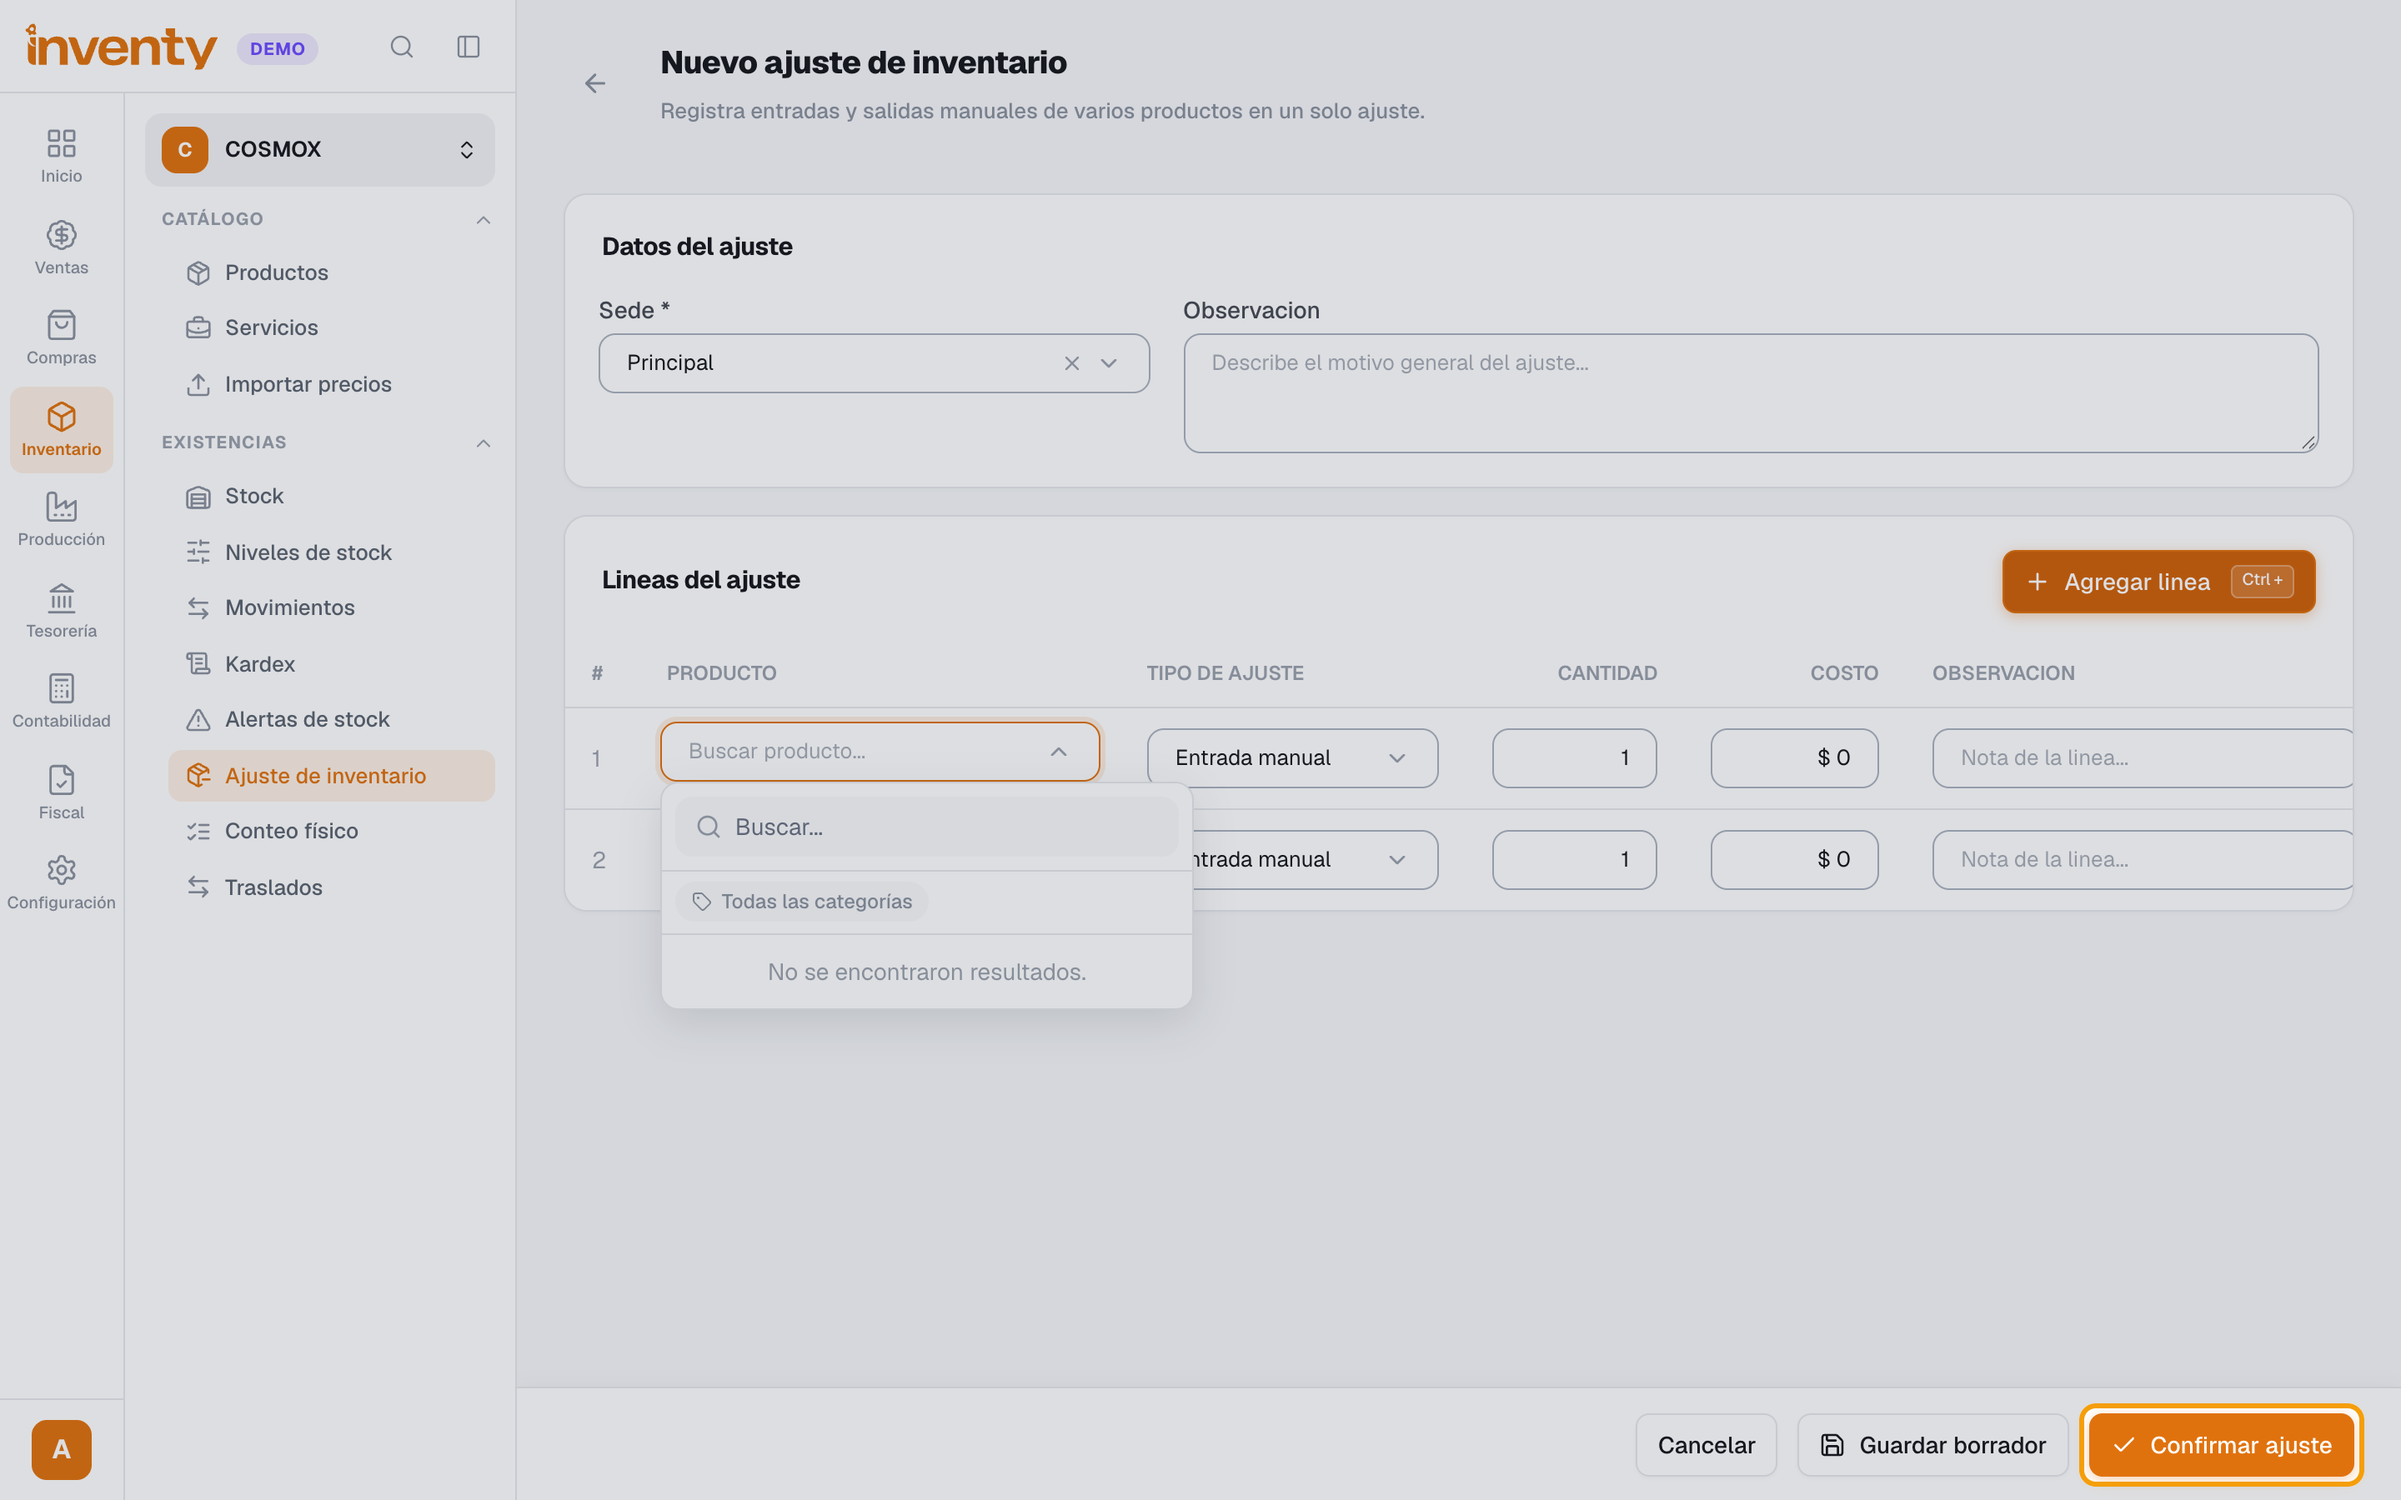
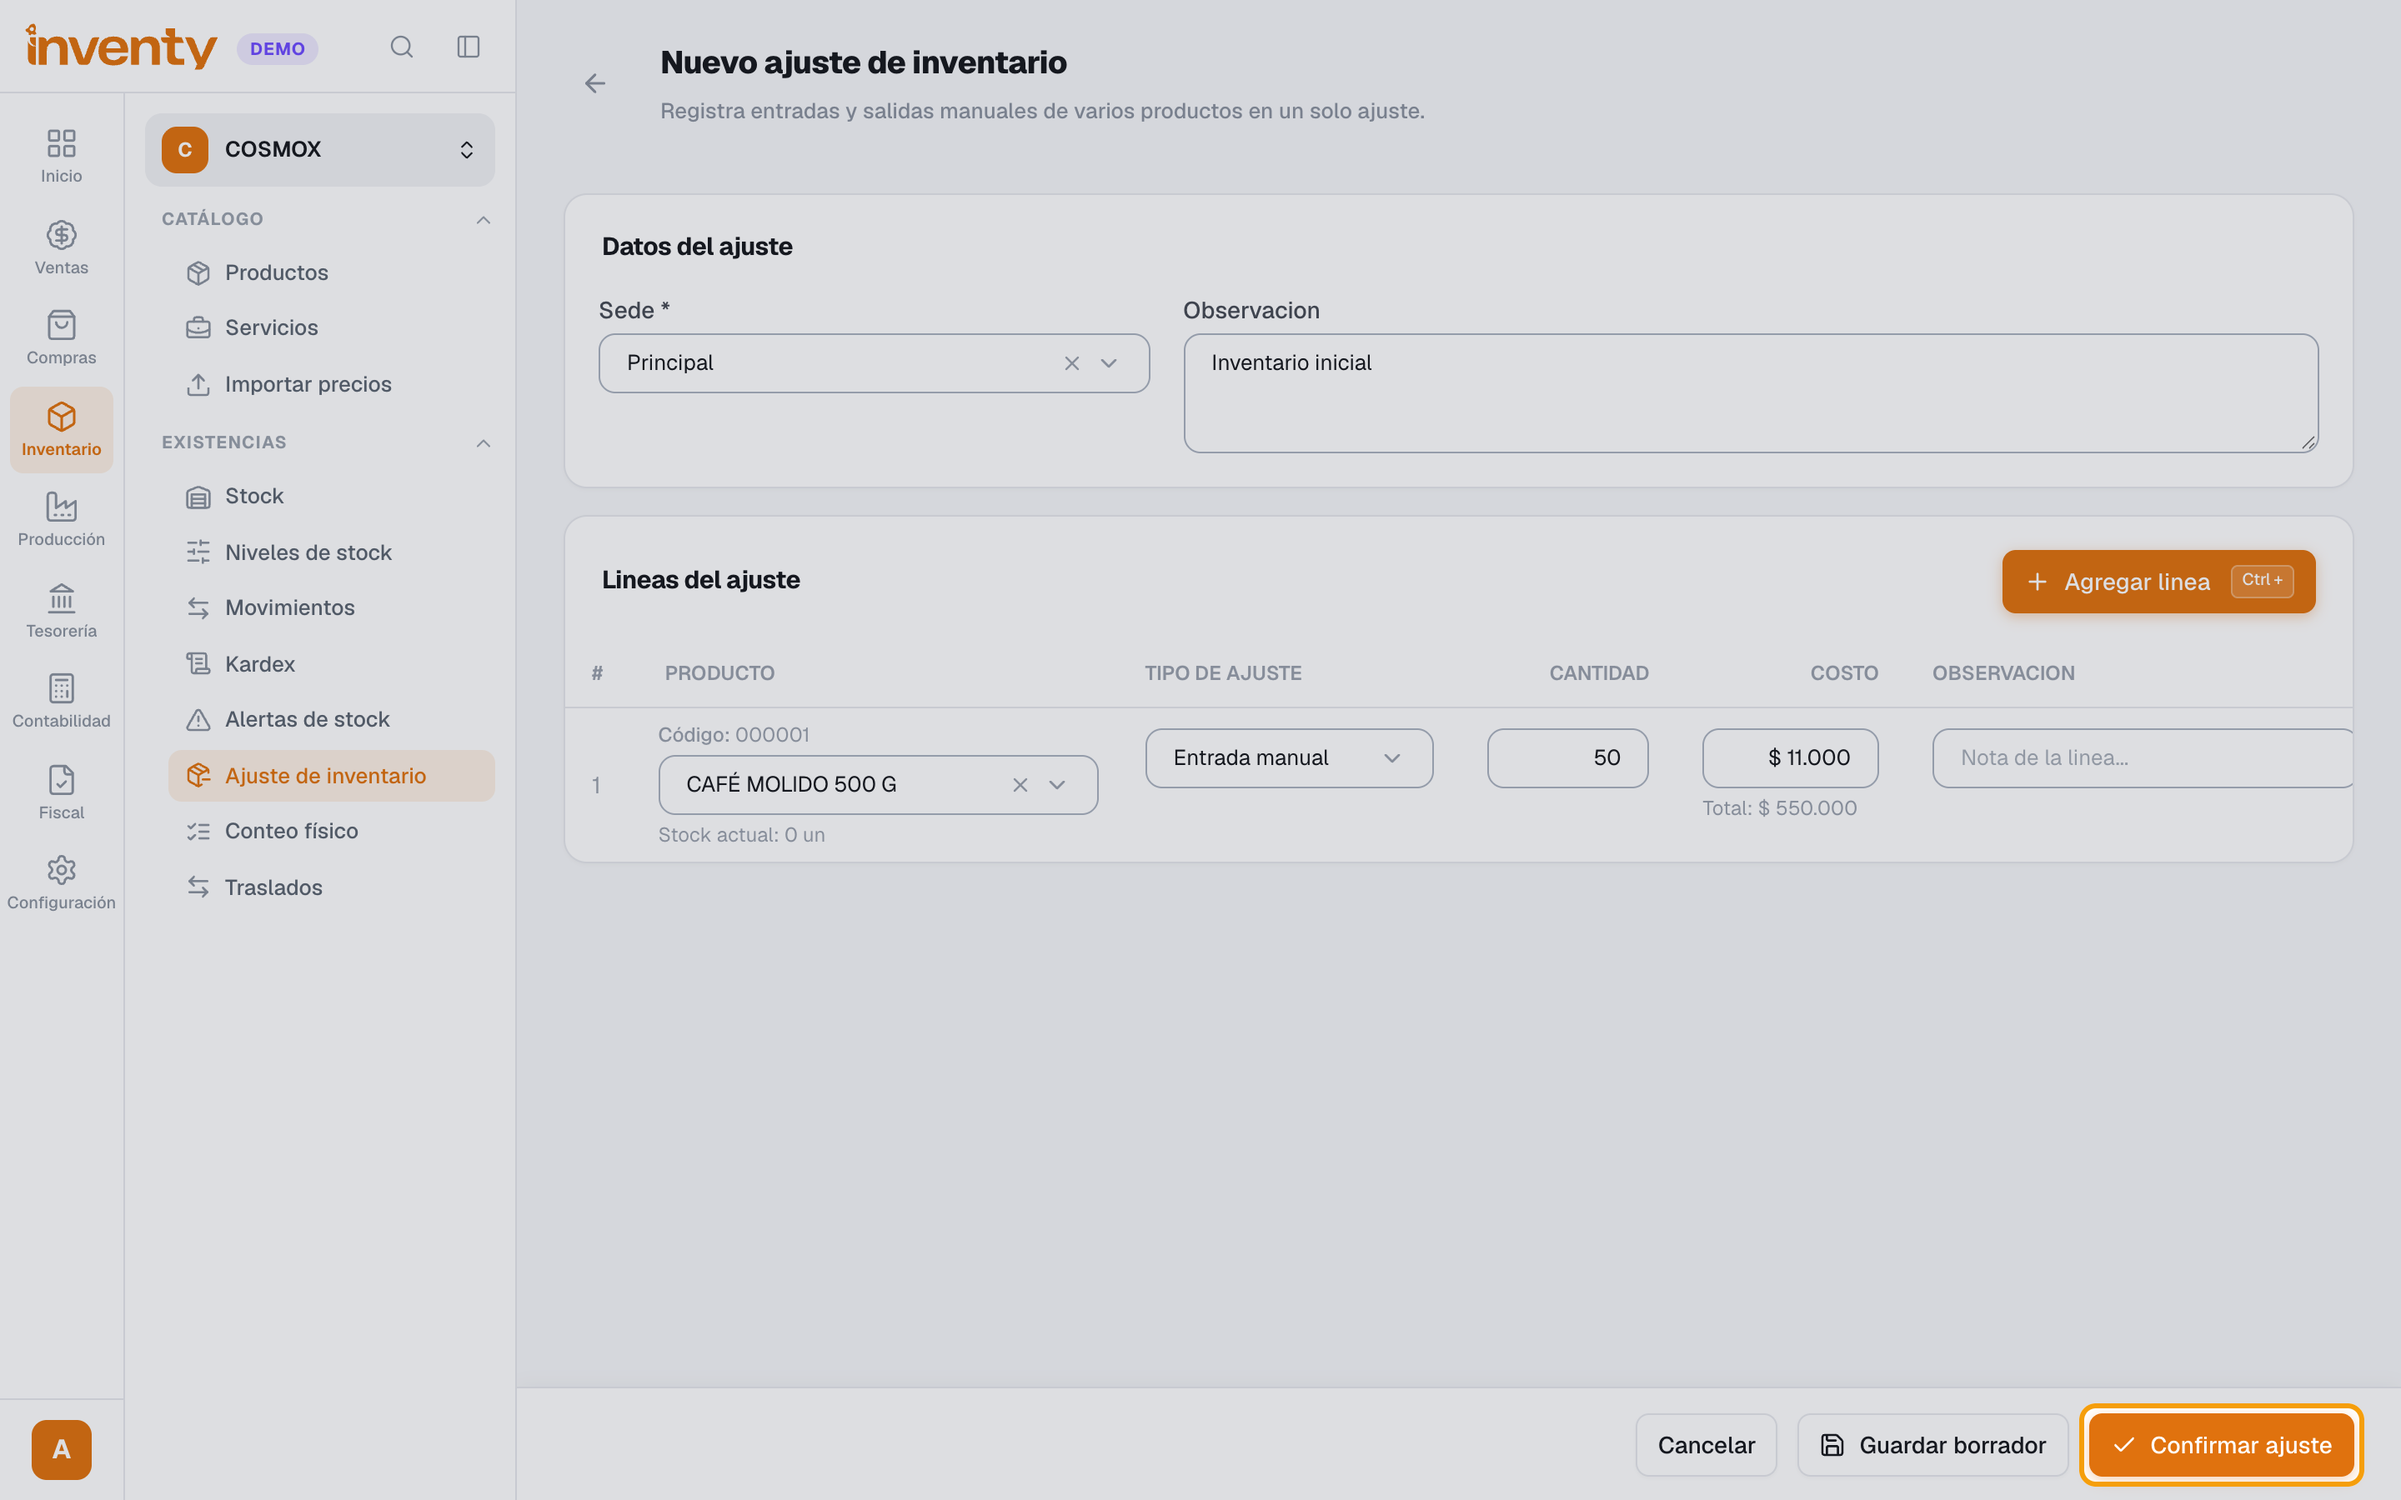
feat: capturas de ajuste de inventario dando existencias en la demo

diff --git a/docs/productos-inventario/ajuste-inventario.md b/docs/productos-inventario/ajuste-inventario.md
@@ -28,7 +28,7 @@ tags:
 
 ![Paso 2: datos del ajuste](../assets/capturas/productos-inventario/ajuste-inventario/paso-2.png)
 
-**Paso 3.** Haz clic en **Agregar linea**, elige el **Tipo de ajuste** (entrada o salida), el producto y la cantidad. Repite por cada producto.
+**Paso 3.** En **Lineas del ajuste**, elige el producto, el **Tipo de ajuste** (ej. **Entrada manual**), la **Cantidad** y el **Costo**. Para más productos, haz clic en **Agregar linea**.
 
 ![Paso 3: líneas del ajuste](../assets/capturas/productos-inventario/ajuste-inventario/paso-3.png)
 

diff --git a/gestion/capturas-reporte.md b/gestion/capturas-reporte.md
@@ -1,5 +1,5 @@
 # Reporte de capturas
 
-> Generado por `npm run capturas` el 1/10/2026, 12:26:27 p. m.. Ambiente: https://erp.cosmox.tech
+> Generado por `npm run capturas` el 1/10/2026, 12:27:26 p. m.. Ambiente: https://erp.cosmox.tech
 
-**6** capturas tomadas · **0** fallas · **79** imágenes siguen pendientes.
+**4** capturas tomadas · **0** fallas · **79** imágenes siguen pendientes.
